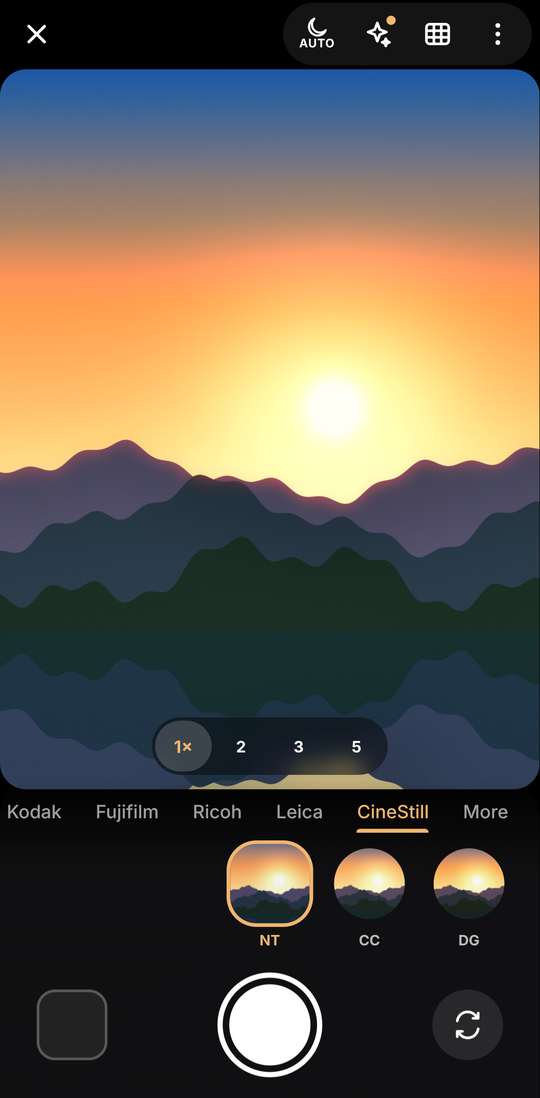
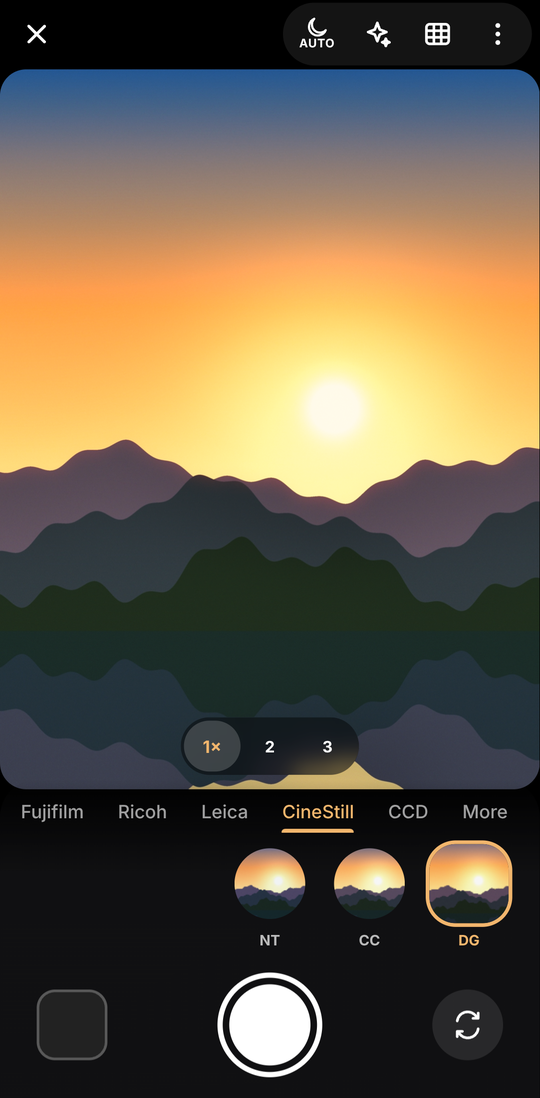
Effects, CCD looks, clearer README

diff --git a/README.md b/README.md
@@ -2,31 +2,66 @@
 
 <h1 align="center">Ace Studio + Ace Looks</h1>
 
-<p align="center">
-  <b>Ace Studio</b>: a free Linux app for the Insta360 Ace Pro 2.<br>
-  <b>Ace Looks</b>: 54 film looks and a film camera for your phone. No app store, no account, no uploads.
-</p>
+<p align="center">Two free apps in one project. Pick the one for your device.</p>
+
+<table>
+<tr>
+<td width="50%" valign="top">
+
+### 📱 Ace Looks
+**For your phone** (Android + Chrome)
+
+54 film looks, effects and a film camera for your photos.
+Works with **any photo**. No Insta360 camera needed.
+
+<a href="https://dhaneshshanmugam36-alt.github.io/ace-studio/phone/"><img alt="Open Ace Looks" src="https://img.shields.io/badge/Open%20Ace%20Looks-on%20your%20phone-F2B66D?style=for-the-badge"></a>
+
+1. Open the link above **on your phone** in Chrome
+2. Tap **⋮** → **Install app**
+3. Done. No app store, no account, no download
+
+[More about Ace Looks ↓](#-ace-looks-phone-app)
+
+</td>
+<td width="50%" valign="top">
+
+### 💻 Ace Studio
+**For your Linux computer**
+
+Live view, recording and copying files for the
+**Insta360 Ace Pro 2**, plus the same film looks.
+
+<a href="#install"><img alt="Install Ace Studio" src="https://img.shields.io/badge/Install%20Ace%20Studio-on%20Linux-4E74FF?style=for-the-badge"></a>
+
+```bash
+git clone https://github.com/dhaneshshanmugam36-alt/ace-studio.git
+cd ace-studio && ./install.sh
+```
+
+[More about Ace Studio ↓](#-ace-studio-linux-desktop-app)
+
+</td>
+</tr>
+</table>
 
 <p align="center">
   <a href="https://github.com/dhaneshshanmugam36-alt/ace-studio/releases/latest"><img alt="Latest release" src="https://img.shields.io/github/v/release/dhaneshshanmugam36-alt/ace-studio?label=release"></a>
   <a href="LICENSE"><img alt="Licence GPL-3.0" src="https://img.shields.io/badge/licence-GPL--3.0-blue"></a>
-  <img alt="Linux" src="https://img.shields.io/badge/desktop-Linux-informational">
-  <a href="https://dhaneshshanmugam36-alt.github.io/ace-studio/phone/"><img alt="Phone app" src="https://img.shields.io/badge/phone-open%20Ace%20Looks-F2B66D"></a>
+  <img alt="Free" src="https://img.shields.io/badge/price-free-success">
 </p>
 
----
+### Quick links
 
-## Which one do I need?
+| I want to… | Go here |
+|---|---|
+| Use the **phone app** | **[dhaneshshanmugam36-alt.github.io/ace-studio/phone](https://dhaneshshanmugam36-alt.github.io/ace-studio/phone/)** (open it on your phone) |
+| Install the **Linux app** | [Install steps](#install) |
+| See what changed | [Releases](https://github.com/dhaneshshanmugam36-alt/ace-studio/releases) · [Changelog](CHANGELOG.md) |
+| Report a problem or ask for a feature | [Issues](https://github.com/dhaneshshanmugam36-alt/ace-studio/issues/new/choose) |
 
-| | 📱 **Ace Looks** | 💻 **Ace Studio** |
-|---|---|---|
-| **For** | Anyone with an Android phone | Insta360 Ace Pro 2 owners on Linux |
-| **Does** | Film looks on your photos, film camera with live looks | Live view, record, copy clips over Wi-Fi or USB, film looks |
-| **Needs a camera?** | No, works with any photo | Yes, an Insta360 Ace Pro 2 |
-| **Get it** | **[Open Ace Looks](https://dhaneshshanmugam36-alt.github.io/ace-studio/phone/)** in Chrome, then *Install app* | `git clone` + `./install.sh` ([steps below](#-ace-studio-linux-desktop-app)) |
-| **Cost** | Free | Free |
-
-Both are free and open source, and they share the same 54 film looks, so a photo comes out the same on the phone and on the computer.
+> **Good to know:** Ace Looks is **not** on the Play Store or App Store. The link above is the only official way to get it.
+> It's made for Android phones with Chrome; on iPhone or a computer it opens, but the camera may not work fully.
+> Ace Studio is for Linux only. Both are free and open source: no sign-up, no ads, no payment.
 
 ---
 
